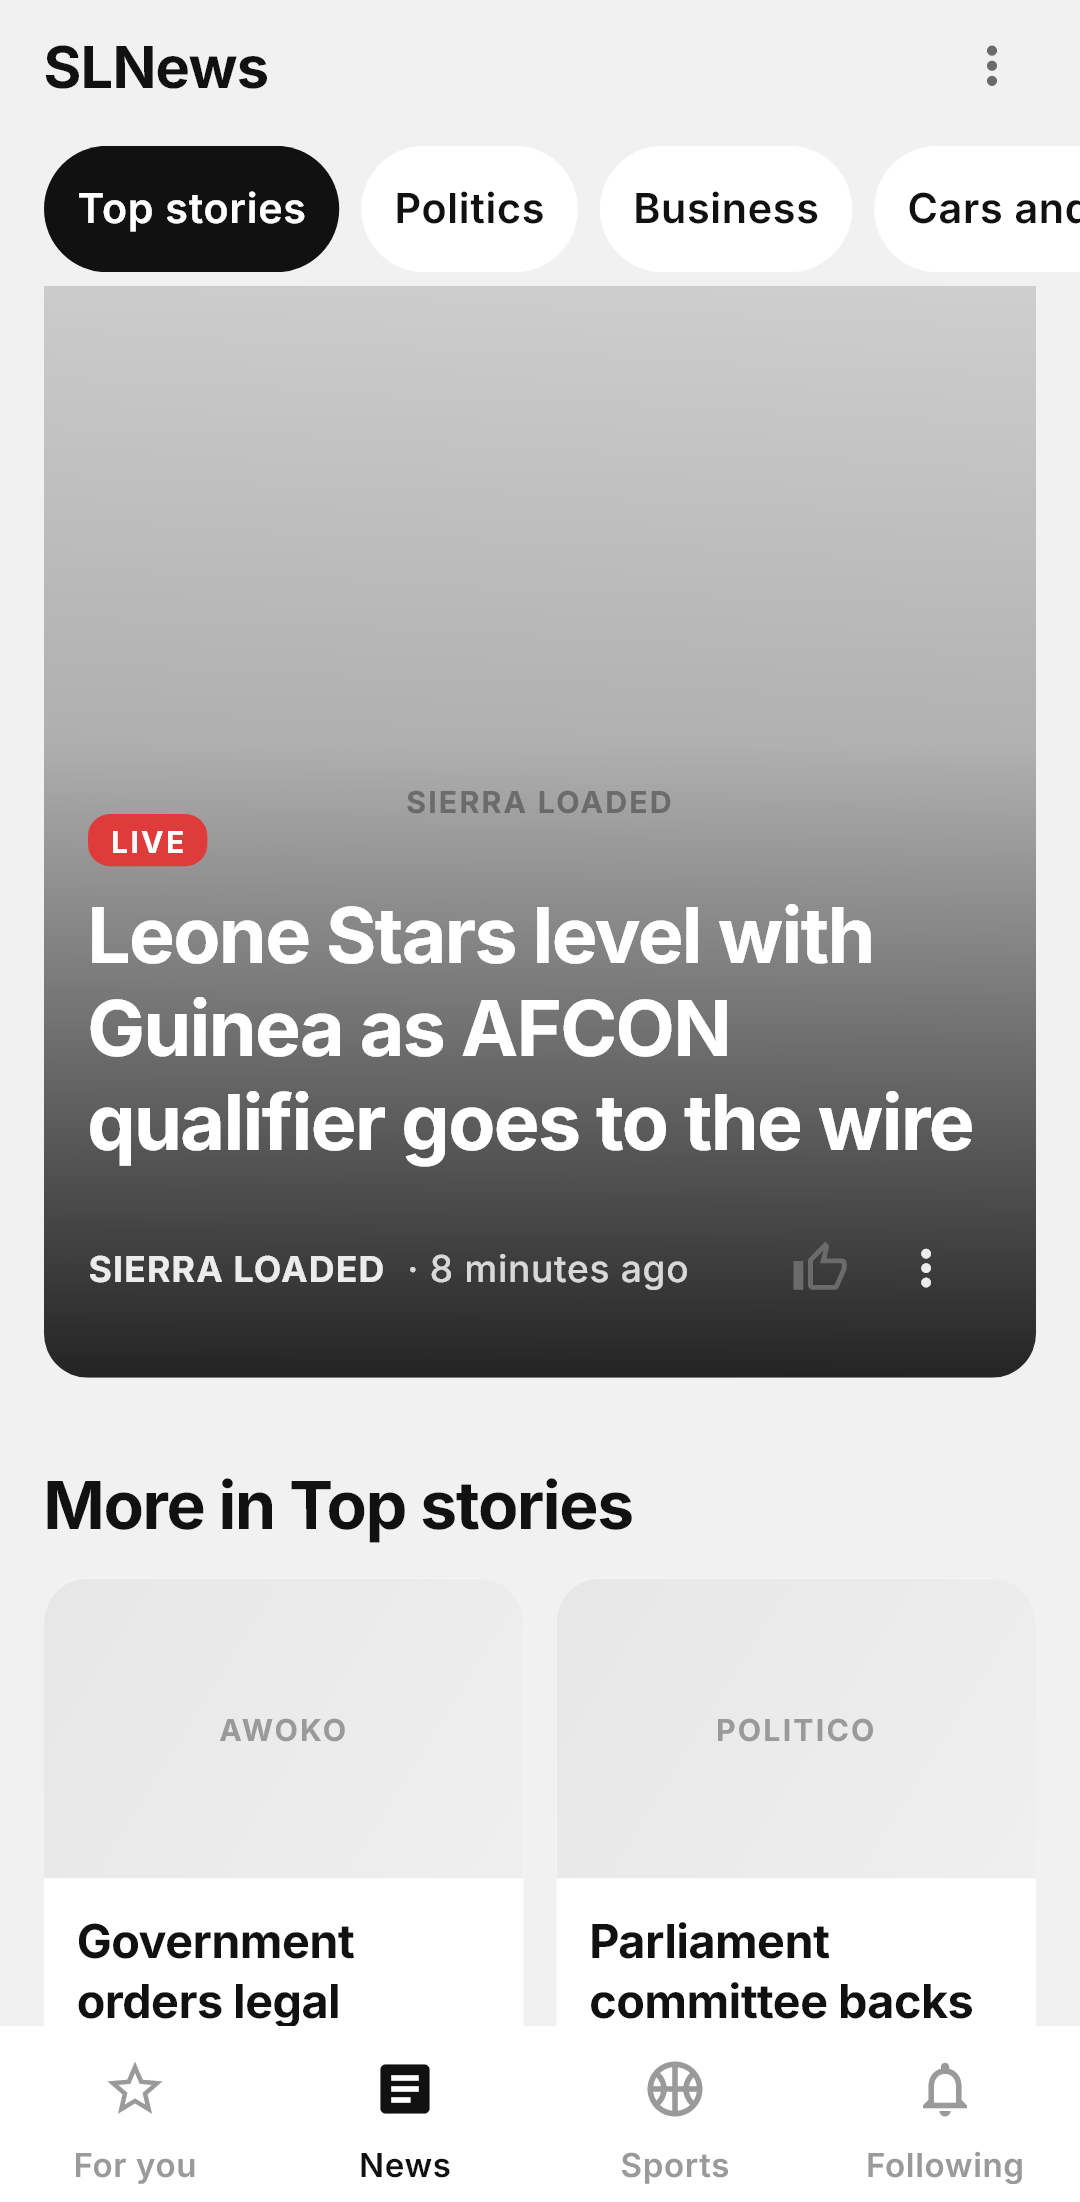
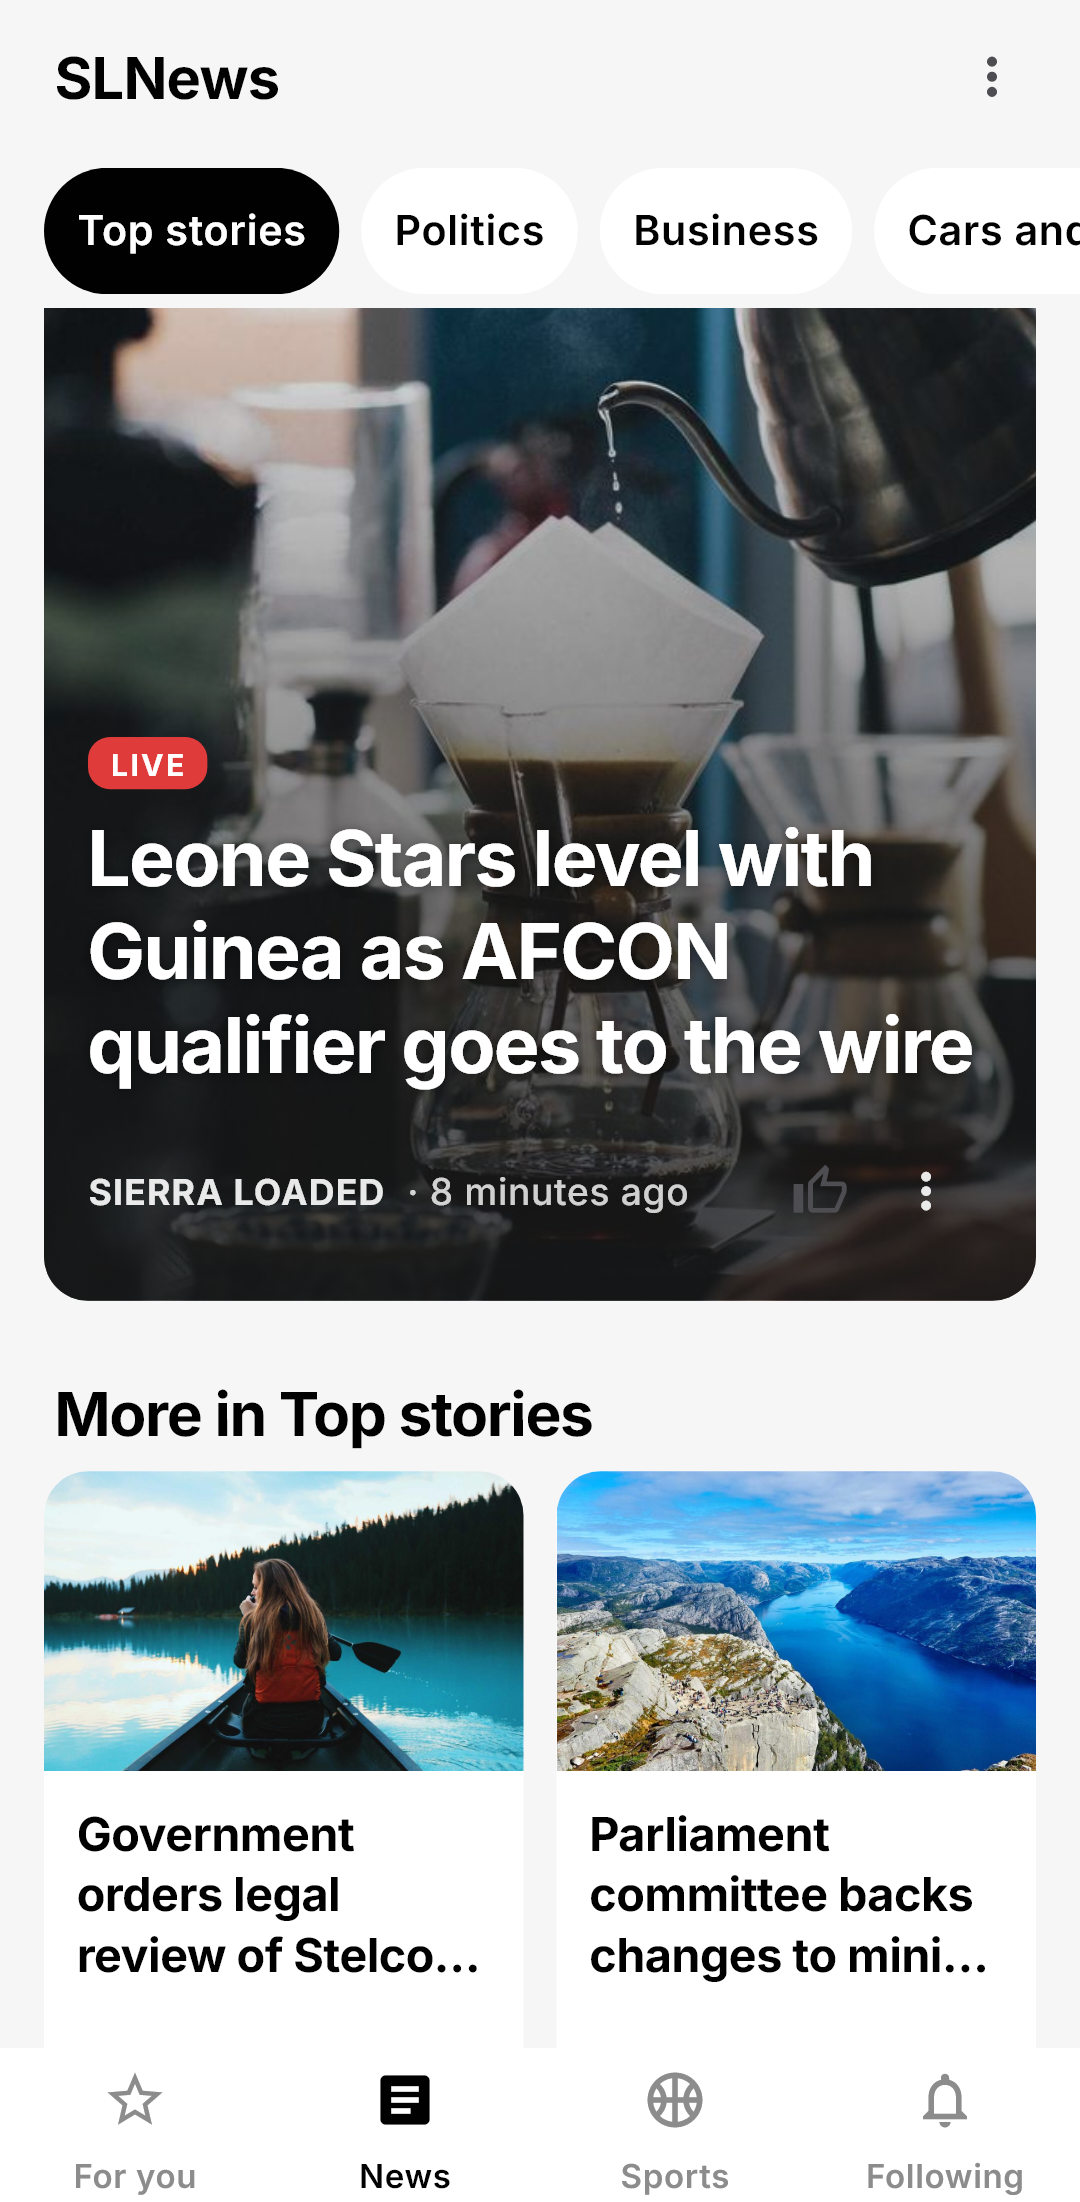
chore(store): stop shipping mocked screenshots; make device capture one command
The listing art could not be fixed from this machine: there is no connected
phone, no emulator image, and virtualization is disabled, so a "real-device
capture" has to happen on the owner's phone. What could be fixed is everything
around it:

- the capture harness followed the entire catalogue, which is why every row said
  "Following"; it now seeds four teams, a league, three topics and two
  publishers, matching a real reader;
- widget tests cannot fetch network images, so the harness now serves fixture
  photos from `test/store/images/` through a test-only seam on SlNetworkImage;
  deterministic by seed, so the layout can be reviewed end to end;
- the improved renders exposed a real UI defect: the hero scrim only darkened the
  bottom quarter, so bright publisher photos made the headline unreadable. The
  scrim now starts at 45% and the hero text carries a shadow;
- the mocked listing PNGs (and the stale promo sheet) are deleted rather than
  shipped: `store/play/screenshots/` is intentionally empty and documented as
  pending. Fixture art must not be uploaded to Play;
- `scripts/capture_store_screenshots.ps1` walks the seven screens on a connected
  phone, pulls binary-safe screencaps, and regenerates the listing frames;
  `docs/STORE-SCREENSHOTS.md` is the checklist.

700 tests pass, coverage 80.72%. `versionCode 72`.

diff --git a/test/store/screenshot_capture_test.dart b/test/store/screenshot_capture_test.dart
@@ -7,34 +7,40 @@ import 'package:flutter/services.dart';
 import 'package:flutter_riverpod/flutter_riverpod.dart';
 import 'package:flutter_test/flutter_test.dart';
 import 'package:slnews_mobile/app.dart';
+import 'package:slnews_mobile/core/domain/models/follow_models.dart';
+import 'package:slnews_mobile/core/domain/repositories/following_repository.dart';
 import 'package:slnews_mobile/core/providers/app_bootstrap.dart';
 import 'package:slnews_mobile/core/providers/app_providers.dart';
+import 'package:slnews_mobile/core/providers/controllers.dart';
 import 'package:slnews_mobile/core/routing/app_router.dart';
 import 'package:slnews_mobile/core/routing/app_routes.dart';
+import 'package:slnews_mobile/core/widgets/sl_network_image.dart';
 
 /// Writes clean device renders for the Play listing.
 ///
 /// Opt-in, because it writes PNGs instead of comparing them:
 ///
-///     S L N E W S _ S T O R E _ C A P T U R E S = 1 \
-///         flutter test test/store/screenshot_capture_test.dart
+///     $env:SLNEWS_STORE_CAPTURES = '1'
+///     flutter test test/store/screenshot_capture_test.dart
 ///
-/// (the variable is read without spaces above; the underscore form is used in
-/// the command). Output goes to `store/play/captures/`, where
+/// Output goes to `store/play/captures/`, where
 /// `tools/generate_store_assets.py` composes it into listing screenshots.
 ///
-/// The offline banner is scrolled past before capture: it is honest in the app
-/// but reads as a defect on a store listing. Remote images still render as the
-/// design-system placeholder under `flutter test`, so a real-device capture is
-/// the better final source - drop files with the same names into
-/// `store/play/captures/` and regenerate.
+/// Widget tests cannot perform network requests, so the photos come from
+/// `test/store/images/` through [SlNetworkImage.debugImageProvider]. They are
+/// illustrative fixtures, not the publisher photography a real device shows;
+/// for final listing art drop real captures with the same names into
+/// `store/play/captures/` and rerun the generator. `docs/STORE-SCREENSHOTS.md`
+/// has the device procedure.
 void main() {
   final bool enabled = Platform.environment['SLNEWS_STORE_CAPTURES'] == '1';
+  tearDownAll(() => SlNetworkImage.debugImageProvider = null);
   final GlobalKey captureKey = GlobalKey();
   late ProviderContainer container;
 
   setUpAll(() async {
     TestWidgetsFlutterBinding.ensureInitialized();
+    _installFixtureImages();
     final String tempDir = Directory.systemTemp
         .createTempSync('slnews_capture_')
         .path;
@@ -77,6 +83,7 @@ void main() {
     );
     container = bootstrap.container;
     addTearDown(container.dispose);
+    await _seedRealisticFollowing(container);
 
     await tester.pumpWidget(
       RepaintBoundary(
@@ -93,6 +100,12 @@ void main() {
 
   Future<void> writeCapture(WidgetTester tester, String name) async {
     drain(tester);
+    // MemoryImage decodes off the fake clock; give it real time, then pump the
+    // decoded frame into the widget tree before capturing.
+    await tester.runAsync(
+      () => Future<void>.delayed(const Duration(milliseconds: 1800)),
+    );
+    await settle(tester);
     final RenderRepaintBoundary boundary =
         captureKey.currentContext!.findRenderObject()! as RenderRepaintBoundary;
     // toImage/PNG encoding are real async engine work; inside the fake async zone
@@ -169,8 +182,68 @@ void main() {
     container.read(appRouterProvider).go(AppRoutes.search);
     await settle(tester);
     await tester.enterText(find.byType(TextField), 'leone');
-    await tester.pump(const Duration(milliseconds: 350));
+    await tester.pump(const Duration(milliseconds: 1800));
     await settle(tester);
     await writeCapture(tester, 'search');
   }, skip: !enabled);
+}
+
+/// Serves the fixture photos to every remote image request. Widget tests cannot
+/// use `CachedNetworkImage`, so the capture build swaps in local file images.
+void _installFixtureImages() {
+  final Directory dir = Directory('test/store/images');
+  if (!dir.existsSync()) return;
+  final List<File> files = dir.listSync().whereType<File>().where((File file) {
+    final String path = file.path.toLowerCase();
+    return path.endsWith('.jpg') || path.endsWith('.png');
+  }).toList()..sort((File a, File b) => a.path.compareTo(b.path));
+  if (files.isEmpty) return;
+
+  // MemoryImage, not FileImage: a widget test's fake async zone can leave file
+  // reads pending, while pre-read bytes decode reliably.
+  final Map<String, Uint8List> bySeed = <String, Uint8List>{
+    for (final File file in files)
+      file.uri.pathSegments.last.replaceAll(RegExp(r'\.(jpg|png)$'), ''): file
+          .readAsBytesSync(),
+  };
+  final Uint8List first = bySeed.values.first;
+
+  // Fixture files are named after the seed URL segment (`.../seed/<seed>/...`),
+  // so the same story always gets the same photo across captures. Bytes are
+  // pre-read because a widget test's fake async zone can leave file reads
+  // pending, while MemoryImage decodes reliably.
+  SlNetworkImage.debugImageProvider = (String url) {
+    final Uri? uri = Uri.tryParse(url);
+    final List<String> segments = uri?.pathSegments ?? const <String>[];
+    final int seedIndex = segments.indexOf('seed');
+    final String? seed = seedIndex >= 0 && seedIndex + 1 < segments.length
+        ? segments[seedIndex + 1]
+        : null;
+    final Uint8List? bytes = seed == null ? null : bySeed[seed];
+    return MemoryImage(bytes ?? first);
+  };
+}
+
+/// A believable reader state: four local teams, a league, three topics and two
+/// publishers. The old capture followed the entire catalogue, which made every
+/// row say "Following" — a bug that had already been fixed in the app.
+Future<void> _seedRealisticFollowing(ProviderContainer container) async {
+  final FollowingRepository repository = container.read(
+    followingRepositoryProvider,
+  );
+  Iterable<FollowTarget> ofKind(FollowKind kind, int count) => repository
+      .catalogue
+      .where((FollowTarget target) => target.kind == kind)
+      .take(count);
+
+  final List<FollowTarget> targets = <FollowTarget>[
+    ...ofKind(FollowKind.team, 4),
+    ...ofKind(FollowKind.league, 1),
+    ...ofKind(FollowKind.topic, 3),
+    ...ofKind(FollowKind.publisher, 2),
+  ];
+  for (final FollowTarget target in targets) {
+    await repository.follow(target);
+  }
+  container.invalidate(followingControllerProvider);
 }

diff --git a/lib/core/widgets/article_hero_card.dart b/lib/core/widgets/article_hero_card.dart
@@ -69,12 +69,15 @@ class ArticleHeroCard extends StatelessWidget {
                       gradient: LinearGradient(
                         begin: Alignment.topCenter,
                         end: Alignment.bottomCenter,
+                        // Darkens from 45% of the card: real publisher photos
+                        // are often bright behind the headline, and the old
+                        // scrim only covered the final quarter.
                         colors: <Color>[
                           Color(0x00171717),
-                          Color(0x05171717),
-                          Color(0xB3171717),
+                          Color(0x66171717),
+                          Color(0xCC171717),
                         ],
-                        stops: <double>[0, 0.752, 1],
+                        stops: <double>[0, 0.45, 1],
                       ),
                     ),
                   ),
@@ -95,7 +98,15 @@ class ArticleHeroCard extends StatelessWidget {
                           article.title,
                           maxLines: 3,
                           overflow: TextOverflow.ellipsis,
-                          style: context.typography.heroTitle,
+                          style: context.typography.heroTitle.copyWith(
+                            shadows: const <Shadow>[
+                              Shadow(
+                                color: Color(0x73000000),
+                                blurRadius: 10,
+                                offset: Offset(0, 1),
+                              ),
+                            ],
+                          ),
                         ),
                         if (showSummary &&
                             article.summary.isNotEmpty) ...<Widget>[
@@ -105,7 +116,10 @@ class ArticleHeroCard extends StatelessWidget {
                             maxLines: 2,
                             overflow: TextOverflow.ellipsis,
                             style: context.typography.meta.copyWith(
-                              color: const Color(0xCCFFFFFF),
+                              color: const Color(0xE6FFFFFF),
+                              shadows: const <Shadow>[
+                                Shadow(color: Color(0x73000000), blurRadius: 6),
+                              ],
                             ),
                           ),
                         ],

diff --git a/lib/core/widgets/sl_network_image.dart b/lib/core/widgets/sl_network_image.dart
@@ -73,9 +73,33 @@ class SlNetworkImage extends StatelessWidget {
   /// content and dead direct URLs. Enabled per build, not required.
   static const String _proxyBase = String.fromEnvironment('SLNEWS_IMAGE_PROXY');
 
+  /// Test-only image source.
+  ///
+  /// Widget tests cannot make network requests, so the store-capture harness
+  /// substitutes local fixture photos here. Production leaves this null and
+  /// every image goes through [CachedNetworkImage] as usual.
+  @visibleForTesting
+  static ImageProvider Function(String url)? debugImageProvider;
+
   Widget _buildRemote(BuildContext context) {
+    final String url = _secureUrl!;
+    final ImageProvider Function(String url)? override = debugImageProvider;
+    if (override != null) {
+      return Image(
+        image: override(url),
+        width: width,
+        height: height,
+        fit: fit,
+        alignment: alignment,
+        errorBuilder: (
+          BuildContext context,
+          Object error,
+          StackTrace? stackTrace,
+        ) => _buildFallback(context),
+      );
+    }
     return CachedNetworkImage(
-      imageUrl: _secureUrl!,
+      imageUrl: url,
       width: width,
       height: height,
       fit: fit,

diff --git a/docs/STORE-SCREENSHOTS.md b/docs/STORE-SCREENSHOTS.md
@@ -1,0 +1,64 @@
+# Store screenshots
+
+The Play listing images are composed from device captures in
+`store/play/captures/` by `tools/generate_store_assets.py`. This is the
+procedure for taking those captures on a real phone.
+
+## Why real captures
+
+`test/store/screenshot_capture_test.dart` can render the screens headlessly, and
+that is useful for layout checks, but it substitutes fixture photography from
+`test/store/images/` because widget tests cannot make network requests. Those
+renders are **illustrative, not final**: store art should show the app with real
+publisher images and a real reader state.
+
+## Before you start
+
+1. Install the build under review (`SLNews-1.0.0-<code>.apk`) on a phone.
+2. Complete onboarding, then **follow 3–4 teams, a league, 2–3 topics and a
+   publisher** so Following and Sports look lived-in.
+3. Sign in if you want the account row to show a real name; otherwise the
+   "Not signed in" state is fine.
+4. Settings: light theme, default text size, notifications on.
+5. Connect the phone with USB debugging and accept the RSA prompt. Confirm:
+   `adb devices` lists exactly one device.
+6. Let the feed load fully; avoid the offline banner and any spinner.
+
+## Capture
+
+```powershell
+powershell -NoProfile -File scripts/capture_store_screenshots.ps1
+```
+
+The script prompts for each screen, captures it to `store/play/captures/`, and
+then runs the generator. Navigate to the named screen and press Enter:
+
+| File | Screen |
+|---|---|
+| `for_you.png` | For You, scrolled just past the offline banner |
+| `news.png` | News tab, first category |
+| `sports.png` | Sports tab, scoreboard and standings visible |
+| `following.png` | Following tab, top of the subscriptions |
+| `article.png` | Any article reader, with the hero image loaded |
+| `section.png` | Top stories section |
+| `search.png` | Search for `leone` with results shown |
+
+Review the regenerated `store/play/screenshots/phone-*.png`. If one is weak,
+re-run with `-Only <name>` after fixing the screen state.
+
+## Rules
+
+- No status-bar clutter: enable demo mode if the carrier name is ugly
+  (`adb shell settings put global sysui_demo_allowed 1` then a demo-mode
+  broadcast), or crop is not allowed — Play accepts the status bar.
+- Do not show personal data: no real email, no notification with a private
+  message.
+- Keep the same language and theme across all seven images.
+- The first screenshot is the most important; it should be For You with a real
+  lead story and no empty card.
+
+## Fallback
+
+If no phone is available, the generated renders are acceptable for internal
+review only. Do not submit them to Play with fixture photography; the mismatch
+between headlines and images is visible to reviewers and users.

diff --git a/store/play/screenshots/README.md b/store/play/screenshots/README.md
@@ -1,0 +1,23 @@
+# Phone screenshots — recapture required
+
+The PNGs that used to live here were **headless renders with fixture content**:
+placeholder photography and a Following list that marked every catalogue entry as
+followed. They were deleted rather than shipped, because a reviewer comparing the
+image with the app would see a mismatch.
+
+Final art must come from a real phone running the build under review:
+
+1. Follow **3–4 teams, a league, 2–3 topics and a publisher**; let images load.
+2. Connect the phone and run:
+   ```powershell
+   powershell -NoProfile -File scripts/capture_store_screenshots.ps1
+   ```
+3. The script captures the seven screens into `store/play/captures/` and runs
+   `tools/generate_store_assets.py`, which recreates `phone-*.png` here.
+
+Full details and the per-screen checklist:
+[`docs/STORE-SCREENSHOTS.md`](../../docs/STORE-SCREENSHOTS.md).
+
+Until that has been done, the listing has **no uploadable screenshots** — this
+directory is intentionally empty. Do not substitute the headless harness output:
+it is useful for layout review only.

diff --git a/store/play/STORE-LISTING.md b/store/play/STORE-LISTING.md
@@ -116,8 +116,8 @@ Tell us what to improve: privacy@slnews.sl
 | --- | --- |
 | Icon 512×512 | `store/play/icon-512.png` |
 | Feature graphic 1024×500 | `store/play/feature-graphic-1024x500.png` |
-| Phone screenshots ×7 | `store/play/screenshots/phone-*.png` |
-| Landscape promo (web/social) | `store/play/promo-panels-1350x800.png` |
+| Phone screenshots ×7 | **pending real-device capture** — see `screenshots/README.md` |
+| Landscape promo (web/social) | regenerate after the phone captures (removed with the mocked art) |
 
 Screenshot order and captions:
 
@@ -127,7 +127,7 @@ Screenshot order and captions:
 4. **Read without the clutter** — article reader and action bar
 5. **Top stories, all of them** — pushed section with photo header
 6. **Search every story** — results grouped into stories and videos
-7. **Follow what matters** — Following with teams, locations and topics
+7. **Follow what matters** — Following with teams and topics
 
 ## Copy rules for this listing
 
